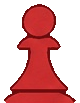
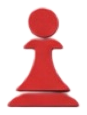
Patch 23: Crimson theme rebuild

Changed region(s): [[0.05, 0.0291, 0.95, 1.0]]

diff --git a/src/data/gameThemes.ts b/src/data/gameThemes.ts
@@ -262,7 +262,7 @@ export const GAME_THEMES: GameTheme[] = [
     description: 'Lacquered crimson and cream',
     board: makeBoard(
       'crimson',
-      { x: 0.0223, y: 0.0223, w: 0.9553, h: 0.9553 },
+      { x: 0.0308, y: 0.0295, w: 0.9382, h: 0.9363 },
       {
         selectColor: 'rgba(255, 120, 120, 0.45)',
         lastMoveColor: 'rgba(255, 120, 120, 0.28)',
